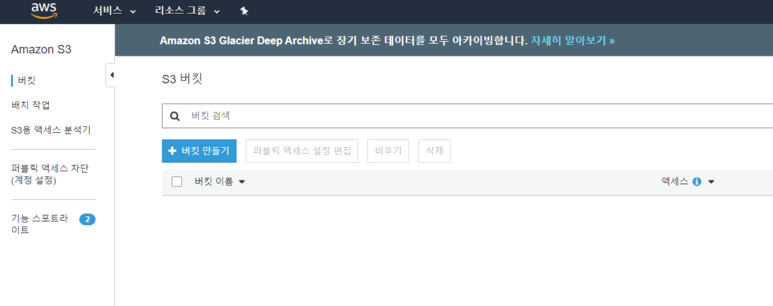
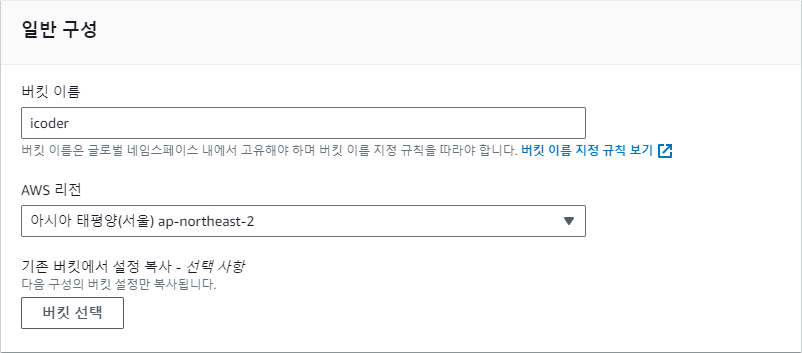
1

Changed region(s): [[0.0, 0.0, 1.0, 1.0], [0.0, 0.1471, 0.0931, 0.1765], [0.5589, 0.4706, 0.5899, 0.5]]

diff --git a/STUDY+RND/Unity3D/AssetBundles/[AssetBundle#3] Addressable Assets.md b/STUDY+RND/Unity3D/AssetBundles/[AssetBundle#3] Addressable Assets.md
@@ -554,9 +554,11 @@
 - ***서버(CDN) 준비***
     - 우선 서버(CDN)가 있어야 하는데 ***Amazon S3***를 사용하기로 했다.
         > *https://aws.amazon.com/ko/s3/*
-    - s3의 콘솔에 로그인하고 버킷을 만들자 버킷 이름은 중복이 안되므로 자신만의 고유한 이름으로 작명하면 된다.
+    - 콘솔에 로그인하고 S3 버킷을 만들자.
+        > ![](https://github.com/icodes-studio/wiki/blob/main/STUDY%2BRND/Unity3D/AssetBundles/Assets/addr86.png)
+    - 버킷 이름은 중복이 안되므로 자신만의 고유한 이름으로 작명하면 된다.
         > ![](https://github.com/icodes-studio/wiki/blob/main/STUDY%2BRND/Unity3D/AssetBundles/Assets/addr91.png)
-    - 다른 건 중요하지 않고 원활한 진행을 위해 이 부분(모든 퍼블릭 액세스 차단) 항목을 체크 해제하자
+    - 원활한 진행을 위해 ***모든 퍼블릭 액세스 차단*** 항목을 체크 ***해제*** 하자
         > ![](https://github.com/icodes-studio/wiki/blob/main/STUDY%2BRND/Unity3D/AssetBundles/Assets/addr92.png)
     - 그 뒤엔 전부 다음을 눌러 버킷을 생성하자.
     - 버킷이 생성되었다면 아무 파일이나 하나 올려보자
